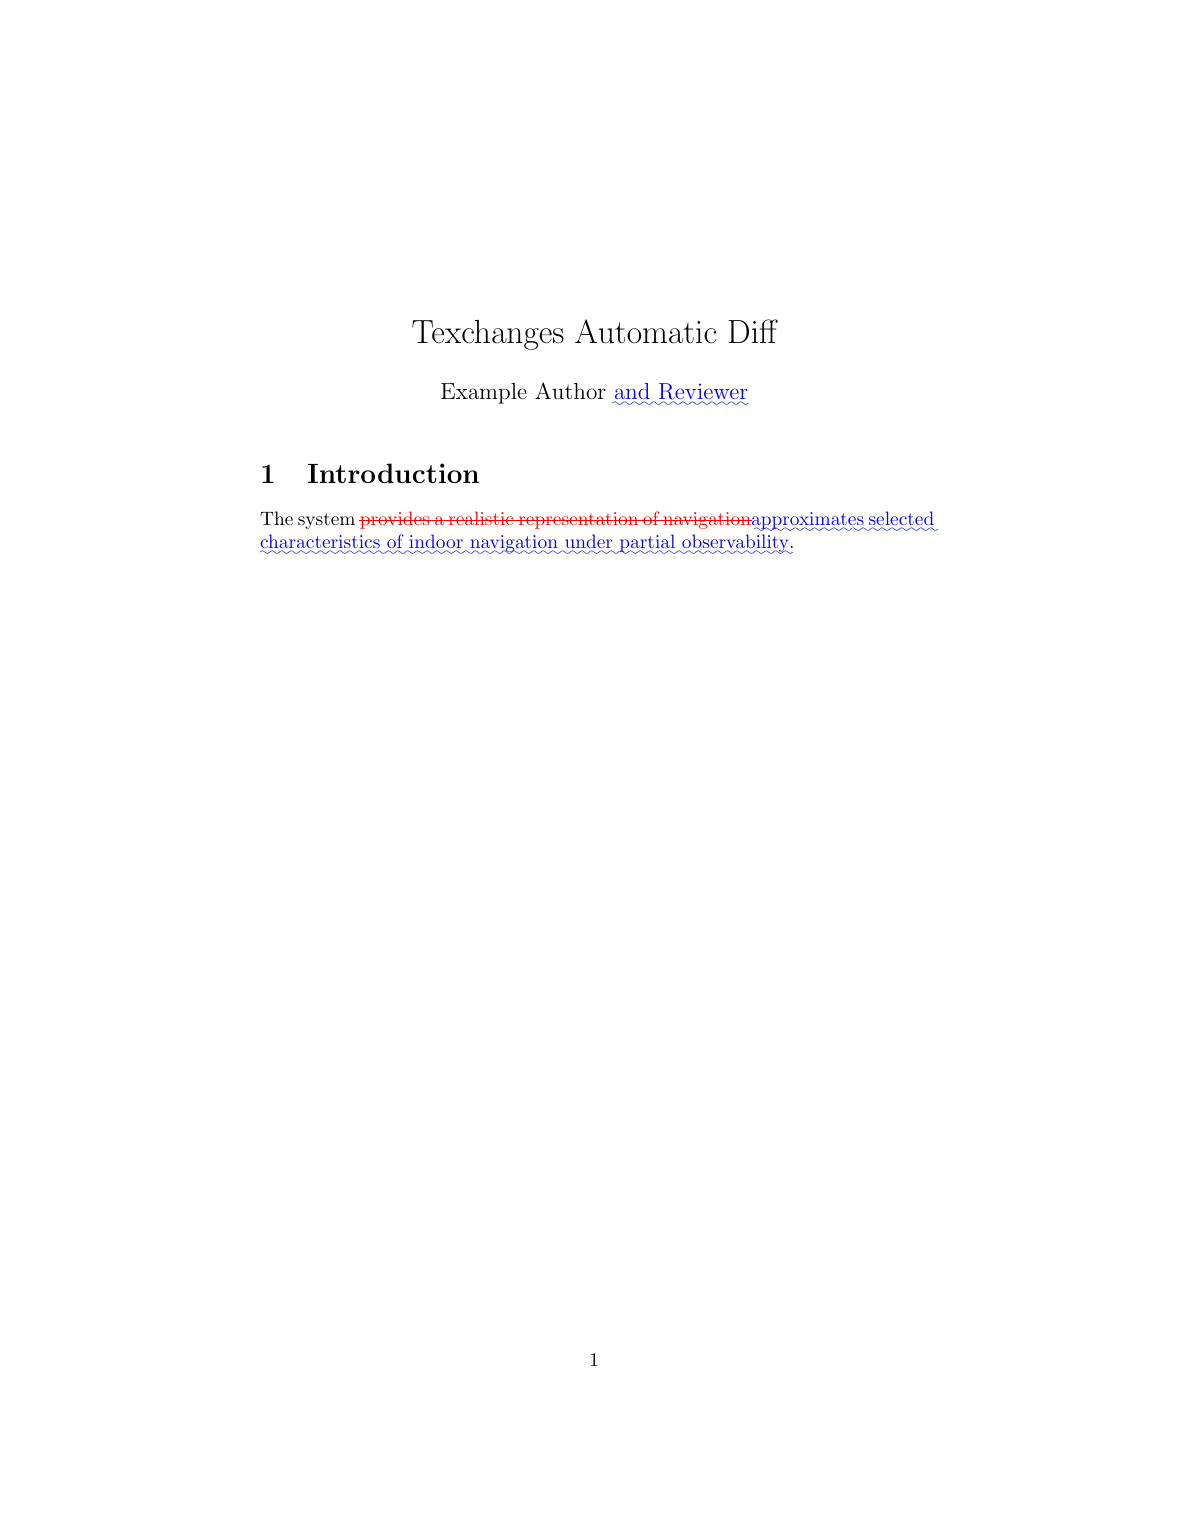
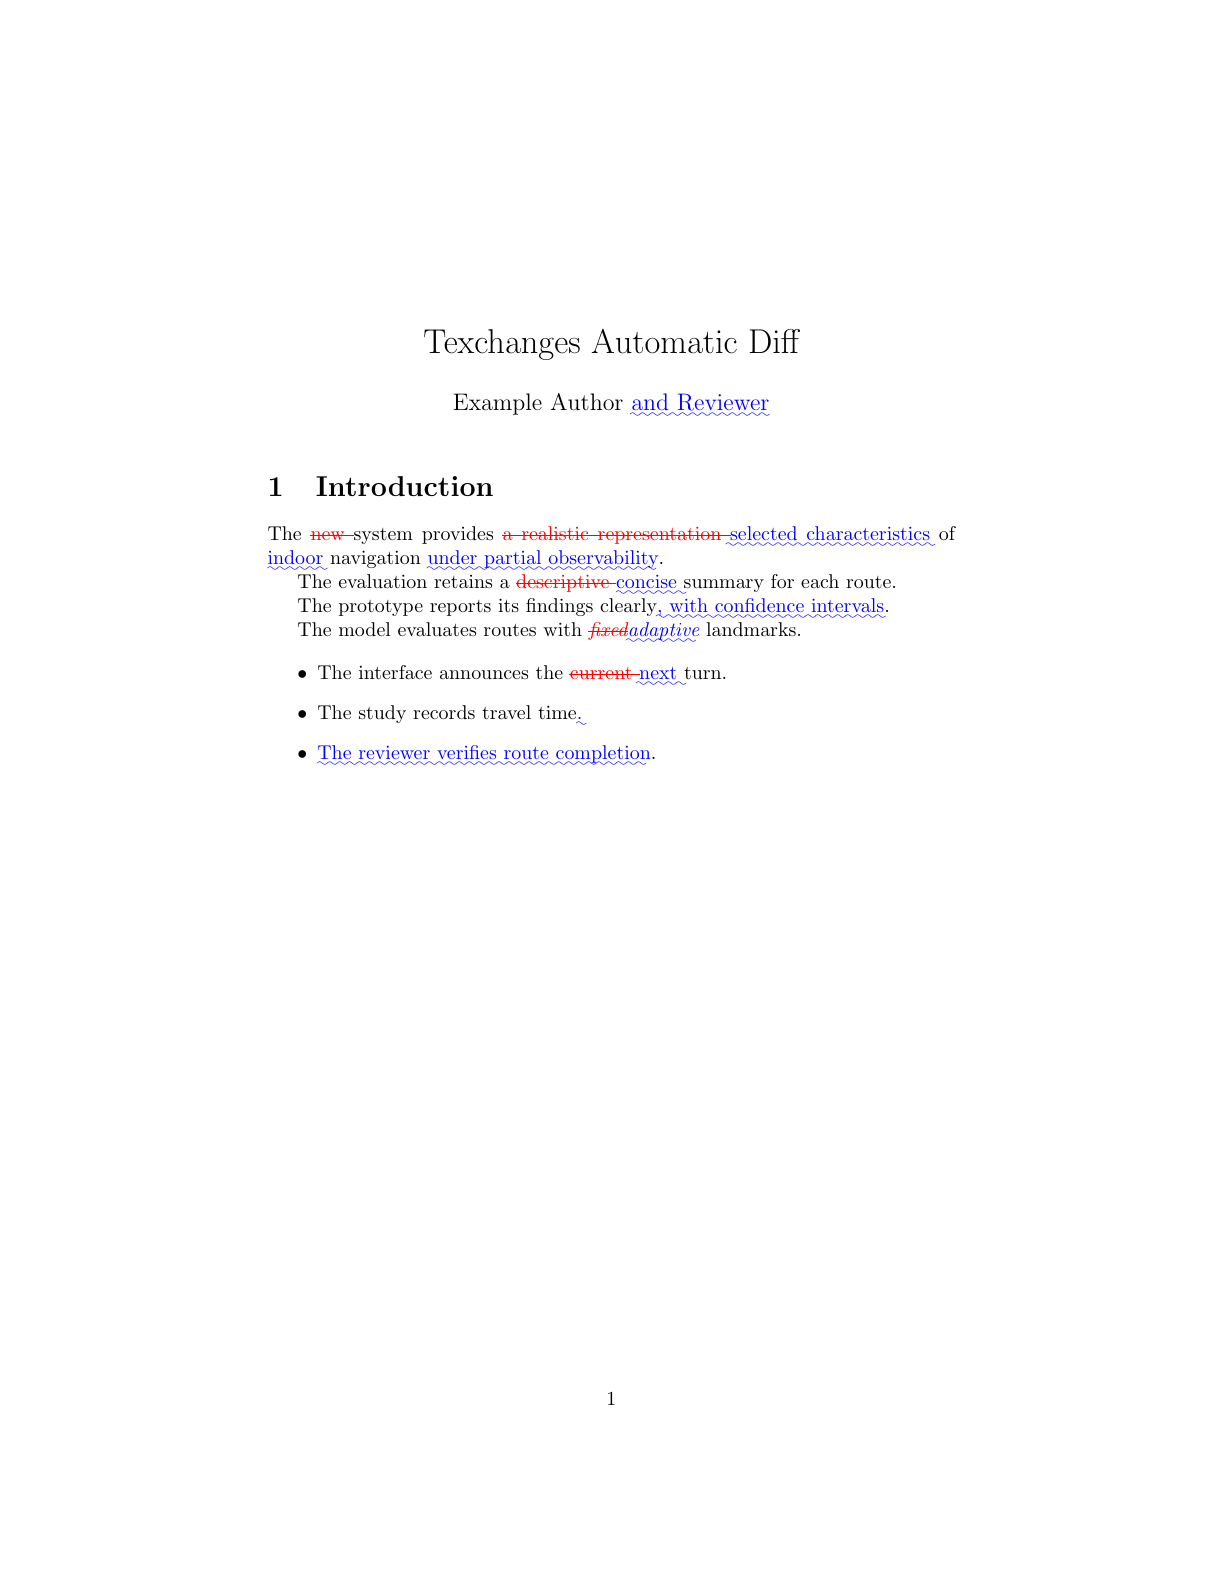
feat: release texchanges 0.2.4

Changed region(s): [[0.2176, 0.3117, 0.7773, 0.4987], [0.5286, 0.2494, 0.6218, 0.2805], [0.4042, 0.2494, 0.4353, 0.2805]]

diff --git a/texchanges-doc.tex b/texchanges-doc.tex
@@ -14,7 +14,7 @@
   colorlinks=true,
   linkcolor=txblue,
   urlcolor=txblue,
-  pdftitle={Texchanges 0.2.3 Manual},
+  pdftitle={Texchanges 0.2.4 Manual},
   pdfauthor={Phuc Nguyen}
 }
 \setlength{\emergencystretch}{2em}
@@ -36,7 +36,7 @@
 
 \title{\textsf{texchanges}\\\large LaTeX-native track changes}
 \author{Phuc Nguyen}
-\date{Version 0.2.3, 15 August 2026}
+\date{Version 0.2.4, 15 August 2026}
 
 \begin{document}
 \maketitle
@@ -60,11 +60,24 @@ manager when needed and load it with:
 \end{lstlisting}
 
 For Overleaf projects whose TeX Live version does not contain Texchanges,
-upload \path{texchanges.sty} beside the main document. The project can then
-use the same package line. The distributable explicit example is named
-\path{texchanges-explicit-review.tex}; the automatic comparison example uses
-\path{texchanges-original.tex}, \path{texchanges-revised.tex}, and
-\path{texchanges-review.tex} with a top-level \path{latexmkrc}.
+upload \path{texchanges.sty} beside the main document. The unified
+\path{texchanges-overleaf.zip} bundle includes the package, the explicit
+review document, the two automatic comparison revisions, and a top-level
+\path{latexmkrc}. Select \path{texchanges-explicit-review.tex} as Main for
+explicit review, or \path{texchanges-review.tex} as Main for automatic diff.
+
+\section{Automatic \texttt{latexdiff}}
+
+The automatic example uses word-level matching. A removed word such as
+``new'' is marked separately while a short shared phrase such as ``system
+provides'' remains unchanged. The example also demonstrates phrase
+replacement, a sentence-end insertion, a change inside \verb|\emph{}|, and a
+revised \texttt{itemize} list. The conditional \path{latexmkrc} runs
+\texttt{latexdiff} only when \path{texchanges-review.tex} is selected as the
+Main document.
+
+Use explicit Texchanges markup or manual review for changed display math,
+complex floats, and custom verbatim-like environments.
 
 \section{Core commands}
 

diff --git a/tests/test_merge.py b/tests/test_merge.py
@@ -55,7 +55,7 @@ class MergeTests(unittest.TestCase):
             text=True,
         )
         self.assertEqual(result.returncode, 0)
-        self.assertEqual(result.stdout, "texchanges-merge 0.2.3\n")
+        self.assertEqual(result.stdout, "texchanges-merge 0.2.4\n")
         self.assertEqual(result.stderr, "")
 
     def test_help_remains_readable_in_narrow_terminal(self):
@@ -93,7 +93,7 @@ class MergeTests(unittest.TestCase):
                 text=True,
             )
         self.assertEqual(result.returncode, 0)
-        self.assertEqual(result.stdout, "texchanges-merge 0.2.3\n")
+        self.assertEqual(result.stdout, "texchanges-merge 0.2.4\n")
 
     def test_native_nested_and_unicode(self):
         source = r"Before \txreplace[author=a,id=R1]{old {nested}}{mới {nested}} after"

diff --git a/examples/automatic-diff/texchanges-revised.tex b/examples/automatic-diff/texchanges-revised.tex
@@ -9,7 +9,18 @@
 
 \section{Introduction}
 
-The system approximates selected characteristics of indoor navigation under
-partial observability.
+The system provides selected characteristics of indoor navigation under partial observability.
+
+The evaluation retains a concise summary for each route.
+
+The prototype reports its findings clearly, with confidence intervals.
+
+The model evaluates routes with \emph{adaptive} landmarks.
+
+\begin{itemize}
+  \item The interface announces the next turn.
+  \item The study records travel time.
+  \item The reviewer verifies route completion.
+\end{itemize}
 
 \end{document}

diff --git a/examples/automatic-diff/texchanges-original.tex b/examples/automatic-diff/texchanges-original.tex
@@ -9,6 +9,17 @@
 
 \section{Introduction}
 
-The system provides a realistic representation of navigation.
+The new system provides a realistic representation of navigation.
+
+The evaluation retains a descriptive summary for each route.
+
+The prototype reports its findings clearly.
+
+The model evaluates routes with \emph{fixed} landmarks.
+
+\begin{itemize}
+  \item The interface announces the current turn.
+  \item The study records travel time.
+\end{itemize}
 
 \end{document}

diff --git a/scripts/texchanges-merge.py b/scripts/texchanges-merge.py
@@ -11,7 +11,7 @@ import sys
 from dataclasses import dataclass
 from pathlib import Path
 
-VERSION = "0.2.3"
+VERSION = "0.2.4"
 VERBATIM_ENVS = {"verbatim", "verbatim*", "lstlisting", "minted"}
 NATIVE = {
     "txadd": (0, 1),

diff --git a/website/src/content/docs/roadmap.md b/website/src/content/docs/roadmap.md
@@ -1,17 +1,58 @@
 ---
-title: Roadmap
-description: Candidate enhancements for future Texchanges releases.
+title: Roadmap to 1.0.0
+description: Planned milestones for the stable Texchanges review protocol.
 ---
 
-The following proposals are candidates. They are not part of the current public API.
+This roadmap describes planned work. A milestone becomes part of the public API only when it is released and documented in the changelog.
 
-1. JSON or JSONL decision manifests and unresolved-change CI gates.
-2. External decision files that keep accept/reject state separate from manuscript source.
-3. A TexLua resolver suitable for installation as a TeX Live executable.
-4. Comment categories, replies, timestamps, reviewer roles, and ORCID metadata.
-5. Color-blind and tagged-PDF accessibility presets.
-6. Stronger behavior inside math, captions, citations, headings, and floats.
-7. GitHub pull-request annotations and editor integrations.
-8. An optional browser extension that edits the same LaTeX protocol.
+## 0.3.0, Structured review data
+
+**Planned.** Add JSONL manifests, policy checks, external decision files, protected files, source locations, and Git revision conversion. The existing Python resolver remains supported while gaining `scan`, `check`, `diff`, `decisions`, and `resolve` commands.
+
+Migration: existing source commands and inline statuses continue to work. IDs remain optional unless a project policy requires them.
+
+## 0.4.0, Collaboration and automation
+
+**Planned.** Add review threads, replies, contributor metadata, a TexLua resolver, GitHub annotations, and shared fixtures that keep the Python and TexLua resolvers aligned.
+
+Migration: author IDs and simple comments remain valid. Thread and contributor fields are additive metadata.
+
+## 0.5.0, Accessible and robust authoring
+
+**Planned.** Add accessible visual presets, tagged-PDF integration when the LaTeX environment supports it, stronger behavior in headings, captions, footnotes, and floats, plus dedicated math commands.
+
+Migration: existing markup remains visually compatible. Tagging support will warn when unavailable rather than claim conformance.
+
+## 0.6.0, Editor workflow
+
+**Planned.** Add a standard-library language server and a thin VS Code client for diagnostics, hover details, document symbols, and review actions.
+
+Migration: editors use the existing Texchanges source protocol. The LaTeX package remains usable without an editor extension.
+
+## 0.7.0, Optional Overleaf assistance
+
+**Planned.** Add a capability-detected browser extension for inserting and deciding Texchanges markup. It will use no telemetry and will fail closed for unsupported editor versions.
+
+Migration: the Git workflow remains the stable collaborative option. The extension adds convenience without becoming a requirement.
+
+## 0.8.0, Interoperability hardening
+
+**Planned.** Stabilize exchange schemas, migration tooling, Python and TexLua parity tests, and real-project compatibility fixtures.
+
+Migration: schema and CLI compatibility commitments will be documented before the 1.0.0 freeze.
+
+## 0.9.0, Release candidate
+
+**Planned.** Freeze new public APIs, complete accessibility and cross-engine verification, audit the documentation, and resolve feedback from pilot projects.
+
+Migration: upgrade guidance will cover every supported pre-1.0 format and command.
+
+## 1.0.0, Stable review protocol
+
+**Planned.** Publish documented compatibility guarantees for LaTeX markup, decision files, CLI resolution, reports, and supported integrations. The release will include clean archive validation, real-project fixtures, and complete user migration guidance.
+
+## How the roadmap stays current
+
+Each release updates this page and the [GitHub README](https://github.com/phucnht/texchanges#roadmap-to-100). Completed work is recorded in the changelog. Feature ideas and use cases are welcome through [GitHub Issues](https://github.com/phucnht/texchanges/issues).
 
 Feature proposals and use cases are welcome through [GitHub Issues](https://github.com/phucnht/texchanges/issues).

diff --git a/README.md b/README.md
@@ -10,7 +10,7 @@ Texchanges is distributed through TeX Live. Install it with the distribution's p
 \usepackage[review]{texchanges}
 ```
 
-For Overleaf projects whose TeX Live version does not include Texchanges, upload `texchanges.sty` beside the main document. The self-contained explicit example is `examples/explicit-review/texchanges-explicit-review.tex`. Overleaf updates TeX Live on its own release schedule, so a new CTAN package may take time to appear there.
+For Overleaf projects whose TeX Live version does not include Texchanges, upload `texchanges.sty` beside the main document. The unified `texchanges-overleaf.zip` bundle includes the package, an explicit review document, automatic comparison files, and `latexmkrc`. Overleaf updates TeX Live on its own release schedule, so a new CTAN package may take time to appear there.
 
 ## Overleaf fallback
 
@@ -129,7 +129,7 @@ In-place updates create a `.bak` file. Interactive mode, nested braces, Unicode,
 
 ## Automatic `latexdiff`
 
-`examples/automatic-diff/` compares `texchanges-original.tex` and `texchanges-revised.tex` through Overleaf's `latexmkrc` mechanism, with `texchanges-review.tex` as the Main document. It complements explicit semantic markup.
+`examples/automatic-diff/` compares `texchanges-original.tex` and `texchanges-revised.tex` through Overleaf's `latexmkrc` mechanism, with `texchanges-review.tex` as the Main document. It uses word-level matching, so short shared phrases remain unchanged. The same `latexmkrc` compiles `texchanges-explicit-review.tex` normally when that document is selected as Main.
 
 ## Examples
 
@@ -140,6 +140,8 @@ The repository includes two complete, visual walkthroughs:
 | Explicit review | You need author IDs, decisions, comments, review reports, and one source that compiles in three modes. | [Explicit review example](examples/explicit-review/README.md) |
 | Automatic `latexdiff` | You need a visual comparison between two complete document revisions. | [Automatic diff example](examples/automatic-diff/README.md) |
 
+Run `make dist` to build the single `dist/texchanges-overleaf.zip` upload bundle. Its [workflow guide](examples/overleaf-workflow/README.md) explains both Main-document choices.
+
 ### Explicit review at a glance
 
 ![Explicit review mode with marked changes and a review report.](website/public/examples/explicit-review-review.png)
@@ -147,6 +149,21 @@ The repository includes two complete, visual walkthroughs:
 ### Automatic diff at a glance
 
 ![Automatic latexdiff output with the original and revised wording marked visually.](website/public/examples/automatic-diff-review.png)
+
+## Roadmap to 1.0.0
+
+| Version | Focus | Planned outcome |
+|---|---|---|
+| 0.3.0 | Structured review data | Manifests, policies, external decisions, protected files, source locations, and Git conversion. |
+| 0.4.0 | Collaboration and automation | Review threads, contributor metadata, TexLua resolution, and GitHub annotations. |
+| 0.5.0 | Accessible and robust authoring | Accessible presets, tagged-PDF support where available, stronger document contexts, and math commands. |
+| 0.6.0 | Editor workflow | Language-server diagnostics and a thin VS Code client. |
+| 0.7.0 | Optional Overleaf assistance | A capability-detected browser extension with no telemetry. |
+| 0.8.0 | Interoperability hardening | Stable schemas, migration tooling, resolver parity, and real-project fixtures. |
+| 0.9.0 | Release candidate | API freeze, cross-engine verification, documentation audit, and pilot feedback. |
+| 1.0.0 | Stable review protocol | Compatibility guarantees for markup, decisions, CLI resolution, reports, and supported integrations. |
+
+See the [detailed roadmap](https://phucnht.github.io/texchanges/roadmap/) for capabilities, migration notes, and milestone status. Roadmap entries are planned work. Completed work appears in the changelog.
 
 ## Development
 

diff --git a/website/src/content/docs/guides/overleaf.md b/website/src/content/docs/guides/overleaf.md
@@ -3,8 +3,10 @@ title: Overleaf
 description: Use explicit review markup and automatic diffs on Overleaf.
 ---
 
-If the project's selected TeX Live version does not contain Texchanges, upload `texchanges.sty` beside the main document and load it with `\usepackage[review]{texchanges}`.
+Download `texchanges-overleaf.zip` from a release and upload it as an Overleaf project. The archive includes `texchanges.sty` for TeX Live versions that do not yet contain Texchanges.
 
 Overleaf compiles projects with TeX Live. New CTAN packages become available through a later TeX Live and Overleaf update, so CTAN acceptance does not make the package immediately available on every Overleaf project.
 
-The repository also includes an automatic comparison example. Its `latexmkrc` runs `latexdiff` against complete old and new revisions. Use explicit Texchanges commands when reviewers or editing tools need stable authors, IDs, comments, and decision statuses.
+Select `texchanges-explicit-review.tex` as the Main document for explicit review. Select `texchanges-review.tex` for automatic comparison. Its conditional `latexmkrc` runs `latexdiff` against the two revisions only for the automatic Main document, while the explicit document compiles normally.
+
+The automatic example uses word-level matching, so short shared phrases remain unchanged. It demonstrates a removed word, phrase replacement, sentence-end insertion, formatted text, and a revised list. Use explicit Texchanges commands when reviewers or editing tools need stable authors, IDs, comments, and decision statuses. Use explicit markup or manual review for changed display math, complex floats, and custom verbatim-like environments.

diff --git a/examples/automatic-diff/README.md b/examples/automatic-diff/README.md
@@ -1,6 +1,6 @@
 # Automatic latexdiff on Overleaf
 
-This example compares two complete LaTeX revisions and generates a visual PDF diff automatically. Use it when reviewers want a document-level comparison rather than explicit, source-level change IDs and decisions.
+This example compares two complete LaTeX revisions and generates a visual PDF diff automatically. It uses word-level matching, so a short shared phrase such as `system provides` remains unchanged while `new` is shown as a deletion.
 
 ## Files
 
@@ -18,7 +18,9 @@ This example compares two complete LaTeX revisions and generates a visual PDF di
 
 Edit the two filenames in `latexmkrc` to match a real project. Keep filenames free of shell metacharacters because they are part of a compile command.
 
-To compile either revision without diffing, temporarily comment out the `$pdflatex` line in `latexmkrc`, then select that revision as the Main document.
+The example covers a removed word, a replacement with shared context, a phrase insertion, an emphasized-word replacement, and a revised list. Keep changed math, complex floats, and custom verbatim-like environments outside an automatic diff example. Use explicit Texchanges markup or manual review for those cases.
+
+To compile either revision without diffing, select it as the Main document. The conditional `latexmkrc` runs `latexdiff` only for `texchanges-review.tex`.
 
 ## Visual walkthrough
 

diff --git a/examples/overleaf-workflow/README.md b/examples/overleaf-workflow/README.md
@@ -1,0 +1,21 @@
+# Texchanges Overleaf workflow
+
+This bundle supports explicit Texchanges review markup and automatic `latexdiff` in one Overleaf project. It includes `texchanges.sty` as a fallback for projects whose selected TeX Live version does not yet contain Texchanges.
+
+## Explicit review
+
+1. Select `texchanges-explicit-review.tex` as the Overleaf Main document.
+2. Compile with pdfLaTeX.
+3. Change `\texchangesexamplemode` from `review` to `final` or `original` to inspect the three output modes.
+
+## Automatic comparison
+
+1. Select `texchanges-review.tex` as the Overleaf Main document.
+2. Compile with pdfLaTeX.
+3. The top-level `latexmkrc` creates `review-generated.tex` from `texchanges-original.tex` and `texchanges-revised.tex`, then compiles the visual diff.
+
+The automatic example uses word-level matching. Short shared phrases remain unchanged, while nearby additions and removals are marked separately.
+
+Keep `latexmkrc` and the two revision files at the top level. Edit both filenames in `latexmkrc` when adapting the workflow to a real project. Avoid shell metacharacters in those names.
+
+The generated review file is temporary. Do not add it to version control.

diff --git a/website/src/content/docs/getting-started/installation.md b/website/src/content/docs/getting-started/installation.md
@@ -15,7 +15,7 @@ CTAN publication and the TeX Live version selected for a project are separate co
 
 ## Overleaf fallback
 
-Download `texchanges.sty` from the latest GitHub release and upload it beside your main `.tex` file. Keep the package line unchanged.
+Download `texchanges-overleaf.zip` from the latest GitHub release and upload it as a project. The bundle includes `texchanges.sty` as a fallback, `texchanges-explicit-review.tex`, two automatic-diff revisions, `texchanges-review.tex`, and `latexmkrc`. Keep the package line unchanged.
 
 ## Manual installation
 

diff --git a/CHANGELOG.md b/CHANGELOG.md
@@ -1,5 +1,14 @@
 # Changelog
 
+## 0.2.4, 2026-08-15
+
+- Replace the separate Overleaf archives with one bundle containing Texchanges,
+  explicit review, automatic `latexdiff`, and a conditional `latexmkrc`.
+- Expand the automatic comparison example with granular word, phrase,
+  formatting, and list changes.
+- Configure the automatic example for word-level matching so short shared
+  phrases remain unchanged in the generated diff.
+
 ## 0.2.3, 2026-08-15
 
 - Install the resolver as the user-level `texchanges-merge` command in TeX
